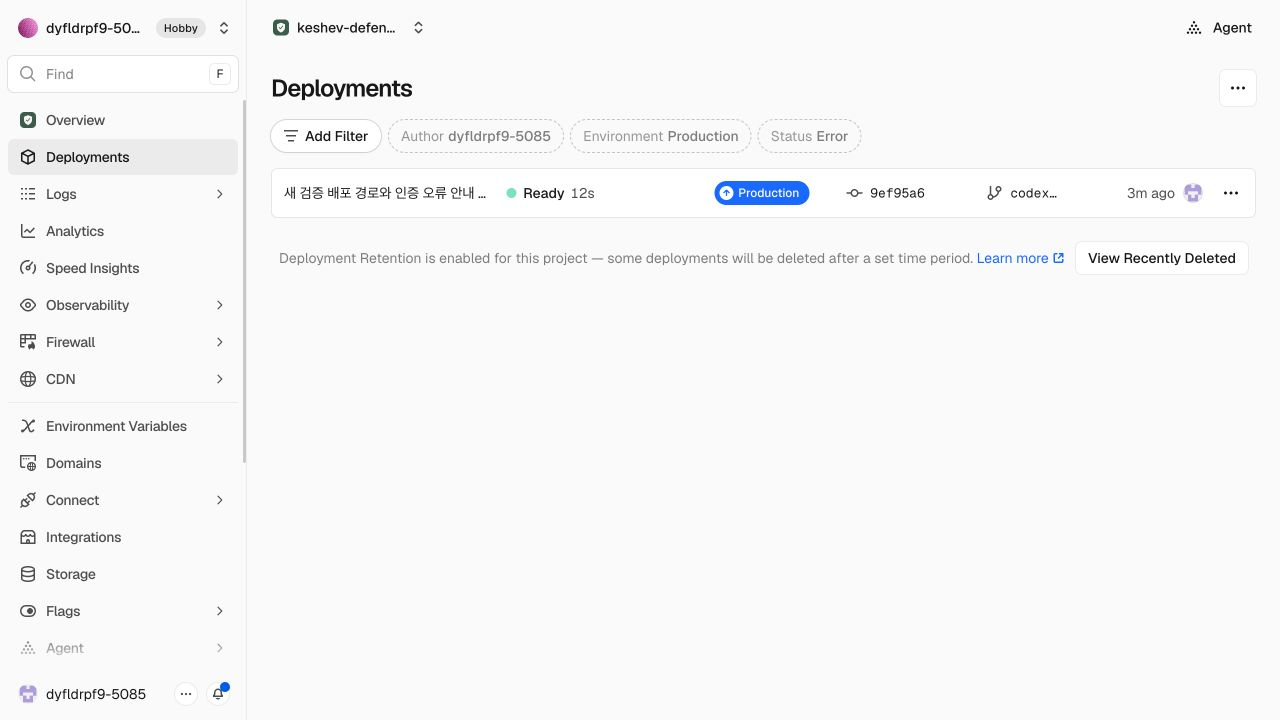
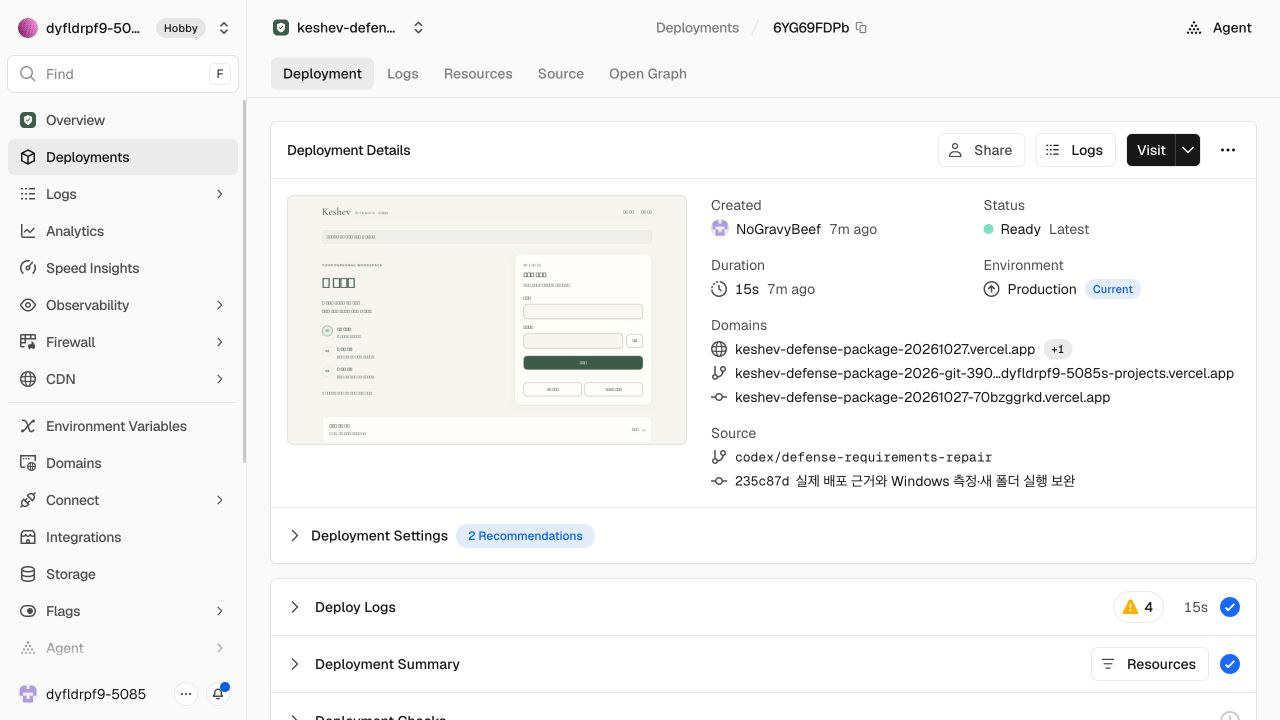
동일 커밋의 별도 폴더 실행과 실제 재시작 검증 기록

diff --git a/package/SELF-CHECK.md b/package/SELF-CHECK.md
@@ -12,6 +12,7 @@
 
 - 2026-10-27 격리된 실제 PostgreSQL16:35개 동시 요청30허용/5거부, 별도 사용자 분리, DB 재시작 후 사용량 보존, anon/authenticated 테이블/RPC 거부, migration 재실행 확인. 운영 연결과 구분한다.
 - 실제 Supabase: 서비스 전용 두 테이블/RPC 적용. 기존 notes6건 보존. RLS=true, anon read=false, authenticated cache write/RPC=false, service_role RPC=true. [권한 캡처](self-check/schema.png).
+- 실제 새 배포의 키 미설정 실패는503 `AI_NOT_CONFIGURED`로 표시되며 운영 DB 예약0회·사용량 행0개를 확인했다. 성공으로 꾸미거나 일일 사용량을 초기화하지 않았다.
 - 실제 클라우드200→429: **미검증**. 새 프로젝트의 서버 한도를1로 설정하고 고정 비민감 요약 한 번의 실제 모델 응답과 다음429, 재시작 이후 한도 유지 확인 예정. 이미 사용한 일별 기록은 삭제/시계 조작으로 초기화하지 않는다.
 - 캡처: self-check/P4-1.png, self-check/P4-2.png (검증 후 추가).
 
@@ -24,14 +25,14 @@
 
 ## P7. 새 프로젝트 배포·첫 화면
 
-- 새 프로젝트 `keshev-defense-package-20261027`, Production은 보완 브랜치만 추적. 기존 main 배포 보존. 실제 첫 화면 https://keshev-defense-package-20261027.vercel.app/ 200, nosniff, `/aleph.json`의 원격 커밋9ef95a64e1638f4016c0a5239cc951518894fde4 일치.
-- 네 환경변수(Supabase 세 값·AI 한도1)를 Secret으로 저장하고 새 Production 배포 Ready 확인. 실제 Auth/DB 연결은 P3/P5와 기존 자료실 검증으로 확인했다. TypeSafe 키 추가와 최종 수정본의 동일 커밋 재배포는 아직 남아 있다.
+- 새 프로젝트 `keshev-defense-package-20261027`, Production은 보완 브랜치만 추적. 기존 main 배포 보존. 실제 첫 화면 https://keshev-defense-package-20261027.vercel.app/ 200, nosniff, `/aleph.json`의 원격 커밋9ef95a64e1638f4016c0a5239cc951518894fde4 일치. 후속 코드235c87d639b709fc24031fa74811ccdbf8b38a6e도 실제 Production Ready·동일 커밋·첫 화면200·두 API401을 재확인했다.
+- 네 환경변수(Supabase 세 값·AI 한도1)를 Secret으로 저장하고 새 Production 배포 Ready 확인. 실제 Auth/DB 연결은 P3/P5와 기존 자료실 검증으로 확인했다. TypeSafe 키 추가와 실제 모델200→429는 아직 남아 있다. 코드235c87d의 새 배포와 같은 커밋의 새 폴더 실행/재시작은 확인했다.
 - 캡처: self-check/P7-1.png(값 없는 환경변수 이름), self-check/P7-2.png(Ready/커밋), self-check/P7-3.png(실제 첫 화면).
 
 ## 총공세·기존 보호
 
 - 1~7일차·21/22 안내를 다시 정독해 요구별 구현/검증을 기록했다. setup.exe는 사용자 제외이며 현재 package-app 없는 시작 틀의 포장 생략 안내를 적용한다.
-- Windows 현재 통합 앱을 작업 관리자에서 직접 대조했다. [실측과 차이](WINDOWS-COMPARISON.md)를 따른다. 무거운 PowerShell 조회와 CPU 표본이 겹치는 문제를 발견해 CPU를 먼저 측정하도록 보완했다. **현재 통합 커밋의 다른 폴더 전체 실행/재시작은 아직 미검증**.
+- Windows 현재 통합 앱을 작업 관리자에서 직접 대조했다. [실측과 차이](WINDOWS-COMPARISON.md)를 따른다. 무거운 PowerShell 조회와 CPU 표본이 겹치는 문제를 발견해 CPU를 먼저 측정하도록 보완했다. 같은235c87d를 Git에서 다시 받은 별도 폴더에서 의존성 설치·빌드·통합 앱 시작/종료/재시작을 확인했다. [재현 기록](REPRODUCTION.md)을 따른다. 개인 AI 외부 호출과 서버 AI 실응답은 이 재현에서 수행하지 않았다.
 - 기존 정상 계정·기기 승인·본인 메모1건을 그대로 사용했다. 같은 로그인과 기기 서명으로 원래 공개 자료실 HTTP403, NetBird 경로 HTTP200을 실제 확인했다. 계정/자료를 새로 만들거나 삭제하지 않았다.
-- 9ef95a6 전체 로컬120시험·실제 제한 격리 실행 통과(HTTP19회·읽기 Git6회). 키 없는 DB401과 유효 anon 권한 검증을 구분하고 미실행2항목을 명시했다. 후속 AI 미설정 사전 거부/샘플링 수정의 표적11시험 통과. 최종 전체 회귀·소스/비밀값 검사·원격/실제 배포 같은 커밋 대조는 별도 검증 후 기록한다.
+- 9ef95a6 전체 로컬120시험·실제 제한 격리 실행 통과(HTTP19회·읽기 Git6회). 키 없는 DB401과 유효 anon 권한 검증을 구분하고 미실행2항목을 명시했다. 후속235c87d 원본/새 폴더에서 각각 전체120시험, 새 폴더의 실제 제한 격리 실행도 통과(HTTP19·읽기 Git6·미실행2). 텍스트354파일 비밀 패턴0건, 공개 캡처 수동 검토. 이후 문서만 바뀐 커밋도 제출 전 원격/실제 배포 일치를 재대조한다.
 - 미검증 조건이 모두 해소되기 전 CEX/메모리얼을 재제출하지 않는다.

diff --git a/docs/FINAL_SUBMISSION.md b/docs/FINAL_SUBMISSION.md
@@ -25,7 +25,7 @@
 | 원문 조건 | 현재 확인한 차이 | 보완·검증 기준 |
 |---|---|---|
 | 2일차: 시각·단위·출처·개선 한 가지, 같은 시각의 작업 관리자 대조 | Windows 통합 요약에 시각·출처·이전 측정 비교·부분 실패를 구현하고 브라우저 표시 시험 완료. 실제 작업 관리자 직접 대조 완료. 표본 구간/집계 차이를 package/WINDOWS-COMPARISON.md에 기록 | Windows 요약에 시각·출처·이전 실측 비교와 부분 실패 표시를 보완. 실제 Windows 화면에서 같은 단위·집계·가까운 시각으로 대조 |
-| 5일차·22단계: 현재 최종 커밋의 별도 경로 재현 | 초기 조회 기능·과거22단계의 재현을 최신 통합 전체의 재현으로 합칠 수 없음 | 동일 최종 커밋·환경·절차·관찰·미확인을 기록하고 기존 자격/설정을 무작정 복사하지 않음 |
+| 5일차·22단계: 현재 최종 커밋의 별도 경로 재현 | 초기 조회 기능·과거22단계의 재현을 최신 통합 전체의 재현으로 합칠 수 없음 | 235c87d를 새 폴더에서 의존성 설치·전체 실행·재시작·자료/감시/캐시 보존 검증. 기존 자격은 복사하지 않음 |
 | P1·P8: 실제 제품 문서·구성도·규칙·침해 정보 대조 | 실제 구성도·규칙·선언 버전·대조와 시연 문서 작성. 실제 배포 증빙은 미검증 | 실제 코드와 일치하게 작성하고 미실행을 성공으로 기입하지 않음 |
 | P3: 두 서버 API의 인증 거부·함수 범위 | 두 API에 원본 JWT/XDR/NetBird 검증 구현. 로컬401·서명/권한/고정 경로 회귀 통과. 새 배포의 무로그인/무효 토큰401·유효 토큰 직접 우회403·서명 TI200 확인 | 기존 인증·기기·권한 경계를 보존한 구현과 실제 무로그인 거부·정상 요청 확인. 함수 기준표의 기존/신규 범위도 출처 대조 |
 | P4: 사용자별 AI 호출 상한 | 서비스 전용 DB 원자적 UTC 일일 한도 구현. 실제 PostgreSQL35동시30허용/5거부·재시작 보존 확인, 실제 클라우드200→429는 미검증 | 서버가 확인한 사용자 기준으로 상한 집행, 재시작·동시 요청·초과 거부와 정상 응답을 확인 |
@@ -94,7 +94,7 @@ node personal-workspace/start.mjs
 
 `on-client/student/netbird-layout.mjs`의 Windows 요약에서 개별 측정 시각·출처·같은 출처의 이전 성공 측정 대비 변화를 표시한다. 잘못된 수치와 읽기 실패를 확인 불가로 남기고, XDR만 읽지 못한 경우 PC 실측을 함께 지우지 않는다. 조회 중 `aria-busy`와 다음 행동을 안내한다. 제공 공통 화면·원래 판정 계약·인증 설정·OS 감시 설치본은 수정하지 않았다.
 
-같은 34개 회귀 시험을 다시 통과했다. 별도 loopback 화면에 **시험 자료·실제 PC 연결 아님**을 명시하고, 브라우저에서 첫 조회·두 번째 변화 비교·잘못된 CPU 값/디스크 실패/XDR 실패의 분리를 확인했다. 이는 표시 검증이며 Windows 실기기나 작업 관리자 대조의 성공 근거로 사용하지 않는다. 현재 최종 커밋의 실기기·별도 경로 재현은 계속 보완해야 한다.
+같은 34개 회귀 시험을 다시 통과했다. 별도 loopback 화면에 **시험 자료·실제 PC 연결 아님**을 명시하고, 브라우저에서 첫 조회·두 번째 변화 비교·잘못된 CPU 값/디스크 실패/XDR 실패의 분리를 확인했다. 이는 표시 검증이며 Windows 실기기나 작업 관리자 대조의 성공 근거로 사용하지 않는다. 이 표시 시험 이후 실제235c87d의 작업 관리자 대조와 별도 폴더 재현은 package/WINDOWS-COMPARISON.md·REPRODUCTION.md에 추가했다.
 
 ### 서버 패키지 보완 저장점
 

diff --git a/package/REPRODUCTION.md b/package/REPRODUCTION.md
@@ -1,0 +1,26 @@
+# 별도 소스 폴더에서 통합 앱 재현
+
+2026-10-27 보완 브랜치 **235c87d639b709fc24031fa74811ccdbf8b38a6e**를 원격에서 새로 clone한 `.local/package-rehearsal-20261027`에서 확인했다. 같은 Mac 계정과 이미 설치·등록된 Windows11/NetBird/Wazuh/Supabase를 재사용한 소스 실행 시험이다. 빈 PC 설치나 새 계정 등록을 검증했다고 하지 않는다. setup.exe는 제외한다.
+
+## 안내대로 준비·실행
+
+1. 두 OS의 Node24.19.0·Windows 일반 사용자 로그인·Mac 공유·NetBird 지정 포트 정책을 확인했다. 원래 소스의 `.local` 자격/설치 파일은 clone에 복사하지 않았다.
+2. 저장소 루트 `npm ci`, `personal-ai`의 `npm ci`를 실행했다. `on-client`는 별도 npm 설치가 필요 없다. `node scripts/build-public.mjs --local`은 로컬 자료만 준비하며 Vercel의 배포 신원을 만들어 내지 않는다.
+3. 루트 `node personal-workspace/start.mjs`로 이미 설치된 소유 Wazuh manager와 Windows 게이트웨이, Mac 앱이 실행됐다. 새 폴더의 추적 소스를 Windows에 배치하고 기존 OS 앱 저장소·키체인·DPAPI·감사 DB를 그대로 사용했다.
+4. http://127.0.0.1:5189/ 를 먼저 열거나 새로고침해 이 실행의 로컬 쿠키를 받는다. 이미 열어 둔 자료실의 정상 로그인/기기 서명으로 목록 새로고침을 누른다. 실패 화면에서는 ‘연결 복구 후 자료 다시 조회’를 누른다. 이전 세션 쿠키를 그대로 쓰는 첫 요청은 거부될 수 있으며 새 인증/자료를 복사해 우회하지 않는다. 브라우저 로그인 자체가 만료됐으면 공식 로그인과 기기 승인을 다시 수행한다.
+5. Ctrl+C 종료 후 같은 명령으로 다시 실행하고 위 정상 복구·조회 절차를 반복했다. 기존 브라우저 메모리의 정상 자료실 세션은 유효 기간 안에 재사용했다.
+
+## 실제 결과
+
+| 확인 | 결과 |
+|---|---|
+| 기존 본인 자료 | 메모1건 정상 표시, 운영 notes 전체6건 보존. 제목·본문은 공개 증거에서 제외 |
+| 자료실 망 경계 | 같은 사용자/기기 서명으로 원래 공개 주소403, NetBird 경로200 |
+| Windows 실제 관측 |13:38:49 KST CPU9.06%·메모리4.19GiB·디스크224.56GiB와 출처/시각. 기존 XDR6/6 원천 연결, 추가 차단 없음 |
+| 두 PC 감시 | 재시작 뒤13:41:45 KST 두 기기의45초 이내 송신 관측2/2, 두 OS Wazuh Active, 기존 감시 항목 보존. [실제 화면](self-check/REPRO-PC.png) |
+| 공식 침해 정보 | Wazuh 첫50/94건, NVD13:22:49·KEV13:22:48 원래 수신 시각과 6시간 DB캐시를 새 소스/서버 재시작 후에도 유지 |
+| 키 없는 서버 AI |503 미설정 안내·모델 전송 없음·운영 사용량0행/예약0회. 실제 모델 성공/한도 초과와 구분 |
+| 설치/회귀 | 새 폴더 의존성 설치·로컬 빌드·전체120시험 통과 |
+| 기존 제한 제출 실행 | 새 폴더의 별도 `bundle-notes.json`에 비밀 없는 설명을 작성하고 VM 제한 실행 통과. 실제 HTTP19·읽기 Git6·미실행2. 가상 판정 아님 |
+
+이후 문서/캡처만 추가된 저장점은 소스 해시·새 배포 신원과 재실행을 최종 외부 작업 기록에서 대조한다. AI200→429·사용량 보존 검증이 끝나기 전에는 전체 완료/제출로 판단하지 않는다. 개인 OAuth의 기존 실제 응답/OS900초 차단 복구는 기존 증빙을 보존하며 이번 재현에서 유료 모델이나 위험 송신을 추가 실행한 것으로 쓰지 않는다.

diff --git a/package/README.md b/package/README.md
@@ -38,7 +38,7 @@
 
 ## 통합 앱 시작과 사용
 
-저장소 루트에서 `node personal-workspace/start.mjs`를 실행하고 http://127.0.0.1:5189/ 를 연다. 자세한 기기 등록·키 보관·초기 준비는 [NetBird 안내](../on-client/docs/STUDENT_NETBIRD.md), [AI 안내](../personal-ai/README.md), [전체 실행 설명](../personal-workspace/README.md)을 따른다. 설명서만으로 다른 폴더에서 재현한 결과는 실측표에 별도로 기록한다.
+저장소 루트에서 `node personal-workspace/start.mjs`를 실행하고 http://127.0.0.1:5189/ 를 연다. 자세한 기기 등록·키 보관·초기 준비는 [NetBird 안내](../on-client/docs/STUDENT_NETBIRD.md), [AI 안내](../personal-ai/README.md), [전체 실행 설명](../personal-workspace/README.md)을 따른다. 별도 폴더의 실제 준비·시작·재시작과 기존 인증 재연결은 [재현 기록](REPRODUCTION.md)에 있다. 앱을 재시작하면 먼저 첫 화면을 새로고침한 뒤 자료실 목록/복구 조회를 눌러 로컬 세션을 갱신한다.
 
 1. 기존 자료실 열기 → 원래 계정 로그인 → 기기 승인 → 본인 자료 조회. 인증·기기·서버 권한이 없으면 거부돼야 한다.
 2. Windows 상태 다시 조회 → CPU·메모리·디스크의 시각/단위와 이전 성공값 비교. 읽지 못한 값은 확인 불가다. System/Application 건수는 공격 판정이 아니다.
